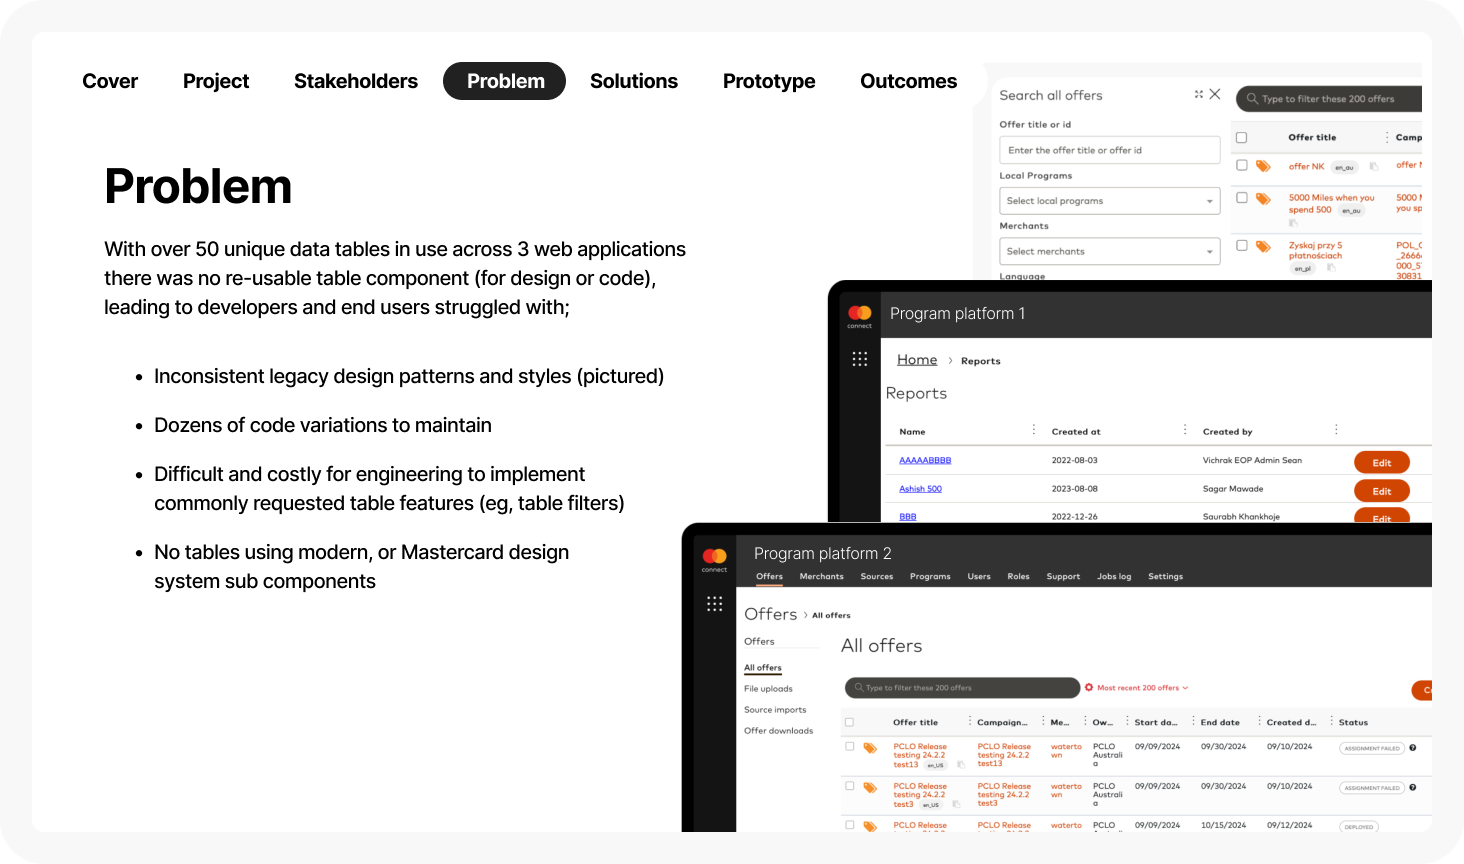
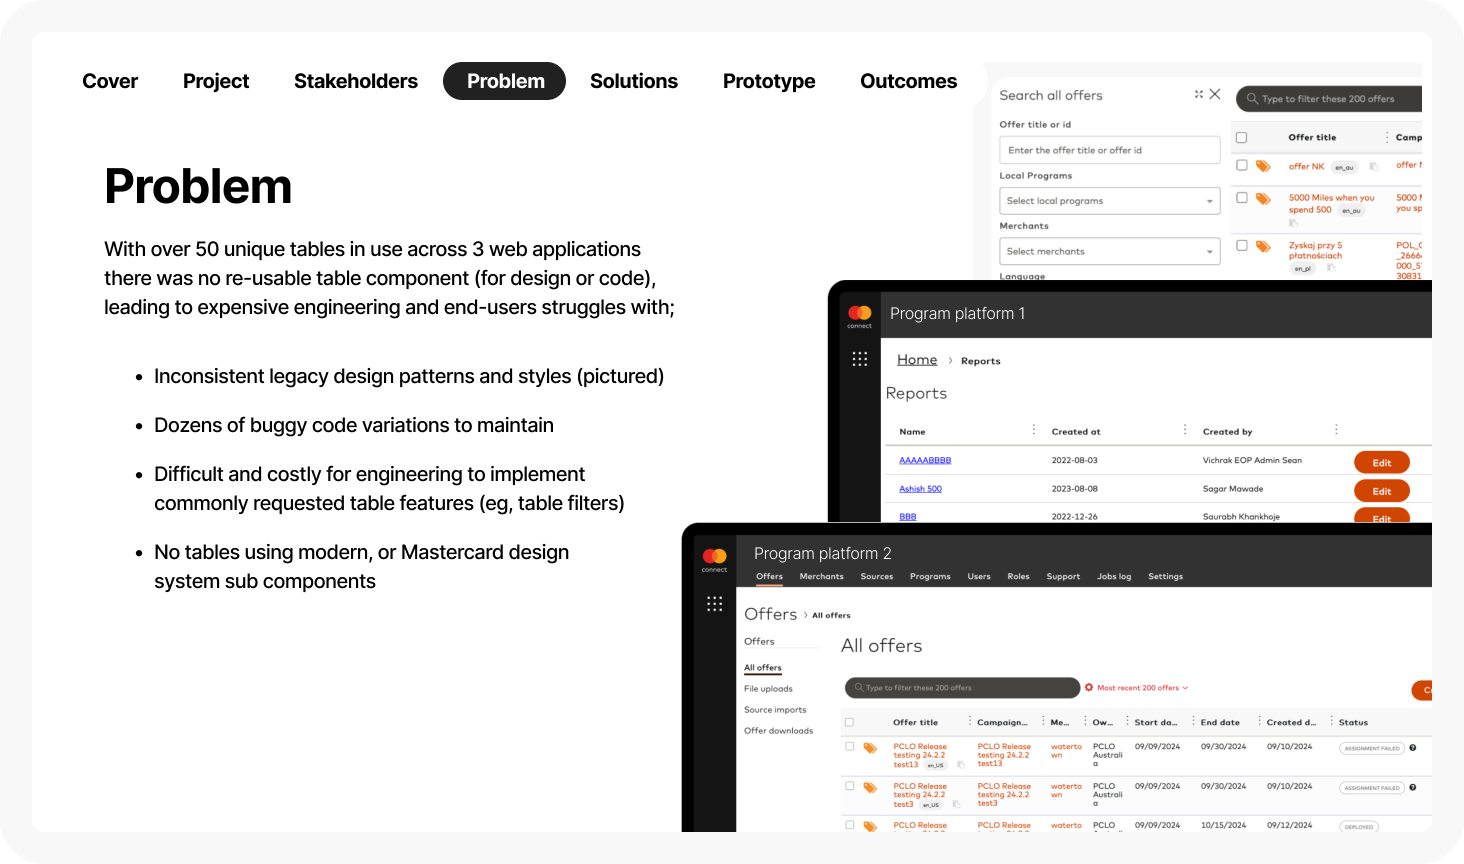
Ship problem slide, OKRmate copy, and blue link hovers.
Replace the tables case-study problem image, refresh OKRmate intro and homepage copy, and use #001bff for text-link hover states.

Changed region(s): [[0.123, 0.3438, 0.4611, 0.375], [0.1844, 0.2812, 0.4611, 0.3125], [0.1537, 0.4688, 0.3689, 0.5]]

diff --git a/okrmate.html b/okrmate.html
@@ -42,6 +42,23 @@
         .tagline-subtitle a {
             text-decoration: underline;
         }
+        .okrmate-try-link {
+            display: inline-flex;
+            align-items: center;
+            gap: 0.3em;
+            text-decoration: underline;
+            text-underline-offset: 2px;
+            color: inherit;
+        }
+        .okrmate-try-link:hover {
+            color: var(--color-link-hover);
+            opacity: 1;
+        }
+        .okrmate-try-link svg {
+            width: 0.9em;
+            height: 0.9em;
+            flex-shrink: 0;
+        }
         .story {
             font-size: clamp(1rem, 2.5vw, 1.25rem);
             color: var(--color-text-muted);
@@ -76,7 +93,7 @@
         <section class="tagline">
             <div class="container">
                 <h1 class="tagline-title">OKRmate.com (by Careerjump)</h1>
-                <p class="tagline-subtitle">From brand concept and logo design to fully-functional web app. After years of coding experiments I recently learned a cutting edge AI-coding workflow to launch an AI-powered OKR coach that helps teams leverage <a href="https://www.whatmatters.com/faqs/okr-meaning-definition-example" target="_blank" rel="noopener noreferrer">the advanced goals framework</a> without any prior experience.</p>
+                <p class="tagline-subtitle">As founding designer turned CTO - I designed everything from the concept and logo to marketing and mobile-first clickable prototypes. Eventually, I moved into developing and shipping a fully-functional web application with cutting edge AI-coding workflows. <a class="okrmate-try-link" href="https://okrmate.com" target="_blank" rel="noopener noreferrer">Try it out<svg viewBox="0 0 24 24" fill="none" stroke="currentColor" stroke-width="2" stroke-linecap="round" stroke-linejoin="round" aria-hidden="true"><path d="M18 13v6a2 2 0 0 1-2 2H5a2 2 0 0 1-2-2V8a2 2 0 0 1 2-2h6"/><polyline points="15 3 21 3 21 9"/><line x1="10" y1="14" x2="21" y2="3"/></svg></a></p>
             </div>
         </section>
 

diff --git a/styles.css b/styles.css
@@ -9,6 +9,7 @@
     --color-text: #111;
     --color-text-muted: #444;
     --color-accent: #1a1a1a;
+    --color-link-hover: #001bff;
     --color-border: #e0ddd8;
     
     /* Typography */
@@ -72,11 +73,21 @@ img {
 a {
     color: inherit;
     text-decoration: none;
-    transition: opacity var(--transition-fast);
+    transition: opacity var(--transition-fast), color var(--transition-fast);
 }
 
 a:hover {
     opacity: 0.7;
+}
+
+p a:hover,
+.tagline-subtitle a:hover,
+.tagline-link:hover,
+.brands-link:hover,
+.project-link-website:hover,
+.thesis-status a:hover {
+    color: var(--color-link-hover);
+    opacity: 1;
 }
 
 ul {
@@ -693,22 +704,24 @@ ul {
 .tagline-link {
     text-decoration: underline;
     color: var(--color-text-muted);
-    transition: opacity var(--transition-fast);
+    transition: opacity var(--transition-fast), color var(--transition-fast);
 }
 
 .tagline-link:hover {
-    opacity: 0.7;
+    color: var(--color-link-hover);
+    opacity: 1;
 }
 
 .brands-link {
     text-decoration: underline;
     color: var(--color-text);
     cursor: pointer;
-    transition: opacity var(--transition-fast);
+    transition: opacity var(--transition-fast), color var(--transition-fast);
 }
 
 .brands-link:hover {
-    opacity: 0.7;
+    color: var(--color-link-hover);
+    opacity: 1;
 }
 
 /* ========================================
@@ -1400,7 +1413,7 @@ h1.section-title,
 }
 
 .footer-link:hover {
-    color: var(--color-text);
+    color: var(--color-link-hover);
 }
 
 .footer-nav a {
@@ -2176,7 +2189,8 @@ h1.section-title,
 }
 
 .project-link-website:hover {
-    opacity: 0.7;
+    color: var(--color-link-hover);
+    opacity: 1;
 }
 
 .project-link-ghost {
@@ -2570,7 +2584,8 @@ button.project-link:hover {
 }
 
 .thesis-status a:hover {
-    opacity: 0.7;
+    color: var(--color-link-hover);
+    opacity: 1;
 }
 
 .thesis-pages {

diff --git a/design-system.html b/design-system.html
@@ -24,6 +24,7 @@
   --color-text:      #111;
   --color-text-muted:#444;
   --color-accent:    #1a1a1a;
+  --color-link-hover:#001bff;
   --color-border:    #e0ddd8;
   --color-white:     #ffffff;
 
@@ -487,7 +488,7 @@ body {
   padding: 0.5rem 1rem;
   transition: opacity var(--transition-fast);
 }
-.btn-text:hover { opacity: 0.7; }
+.btn-text:hover { color: var(--color-link-hover); opacity: 1; }
 
 .link-underline {
   color: var(--color-text-muted);
@@ -495,7 +496,7 @@ body {
   transition: opacity var(--transition-fast);
   font-size: 0.875rem;
 }
-.link-underline:hover { opacity: 0.7; }
+.link-underline:hover { color: var(--color-link-hover); opacity: 1; }
 
 .btn-website {
   color: var(--color-text);
@@ -507,7 +508,7 @@ body {
   background: none;
   border: none;
 }
-.btn-website:hover { opacity: 0.7; }
+.btn-website:hover { color: var(--color-link-hover); opacity: 1; }
 
 /* --- Form Elements --- */
 .demo-form {
@@ -882,6 +883,10 @@ hr.ds-hr {
   text-decoration: underline;
   font-size: 0.875rem;
   font-weight: 500;
+}
+.ds-main .project-link-website:hover {
+  color: var(--color-link-hover);
+  opacity: 1;
 }
 .ds-main .connect-link {
   display: inline-flex;

diff --git a/index.html b/index.html
@@ -206,7 +206,7 @@
                         </div>
                         <div class="project-content">
                             <h3 class="project-title">OKRmate.com AI</h3>
-                            <p class="project-description">Designed (Figma) then vibe-coded (Cursor) and shipped a functional enterprise-grade MVP, compressing a full-stack design-to-production workflow from months to weeks.</p>
+                            <p class="project-description">Designed (Figma) and vibe-coded (Cursor) then shipped a functional enterprise-grade MVP, compressing a full-stack design-to-production workflow from months to weeks.</p>
                             <div class="project-buttons">
                                 <a href="okrmate.html" target="_blank" rel="noopener noreferrer" class="project-link-ghost">see project <span class="arrow">→</span></a>
                             </div>

diff --git a/tables.html b/tables.html
@@ -346,6 +346,11 @@
             text-underline-offset: 2px;
         }
 
+        .tables-doc .section-text a:hover {
+            color: var(--color-link-hover);
+            opacity: 1;
+        }
+
         .tables-doc .guide-callout,
         .tables-doc .guide-pro-tip {
             max-width: 720px;
@@ -397,6 +402,11 @@
 
         .tables-doc .guide-feedback a {
             color: var(--tables-text);
+        }
+
+        .tables-doc .guide-feedback a:hover {
+            color: var(--color-link-hover);
+            opacity: 1;
         }
 
         @media (max-width: 899px) {

diff --git a/CSS/herman-guide.css b/CSS/herman-guide.css
@@ -12,6 +12,7 @@
     --hg-muted: #5c5c5c;
     --hg-border: #e0ddd8;
     --hg-accent: #1a1a1a;
+    --color-link-hover: #001bff;
     --hg-mono: 'SF Mono', 'Fira Code', ui-monospace, monospace;
     margin: 0;
     background: var(--hg-canvas);
@@ -325,6 +326,11 @@
     max-width: 42rem;
     font-size: 0.9375rem;
     color: var(--hg-muted);
+}
+
+.hg-lead a:hover {
+    color: var(--color-link-hover, #001bff);
+    opacity: 1;
 }
 
 .hg-card {

diff --git a/mc-tables.html b/mc-tables.html
@@ -36,7 +36,8 @@
             color: inherit;
         }
         .mc-tables-doc-link:hover {
-            opacity: 0.7;
+            color: var(--color-link-hover);
+            opacity: 1;
         }
         .mc-tables-doc-link svg {
             width: 0.9em;

diff --git a/EOP-navigation.html b/EOP-navigation.html
@@ -52,7 +52,8 @@
         }
 
         .eop-doc-link:hover {
-            opacity: 0.7;
+            color: var(--color-link-hover);
+            opacity: 1;
         }
 
         .section-title + .image-slider-container {

diff --git a/CSS/campaigns-table.css b/CSS/campaigns-table.css
@@ -561,8 +561,8 @@ body.ct-is-resizing * {
 }
 
 .ct-campaign-link:hover {
-    opacity: 0.7;
-    color: var(--ct-text);
+    opacity: 1;
+    color: var(--color-link-hover, #001bff);
 }
 
 .ct-status {
